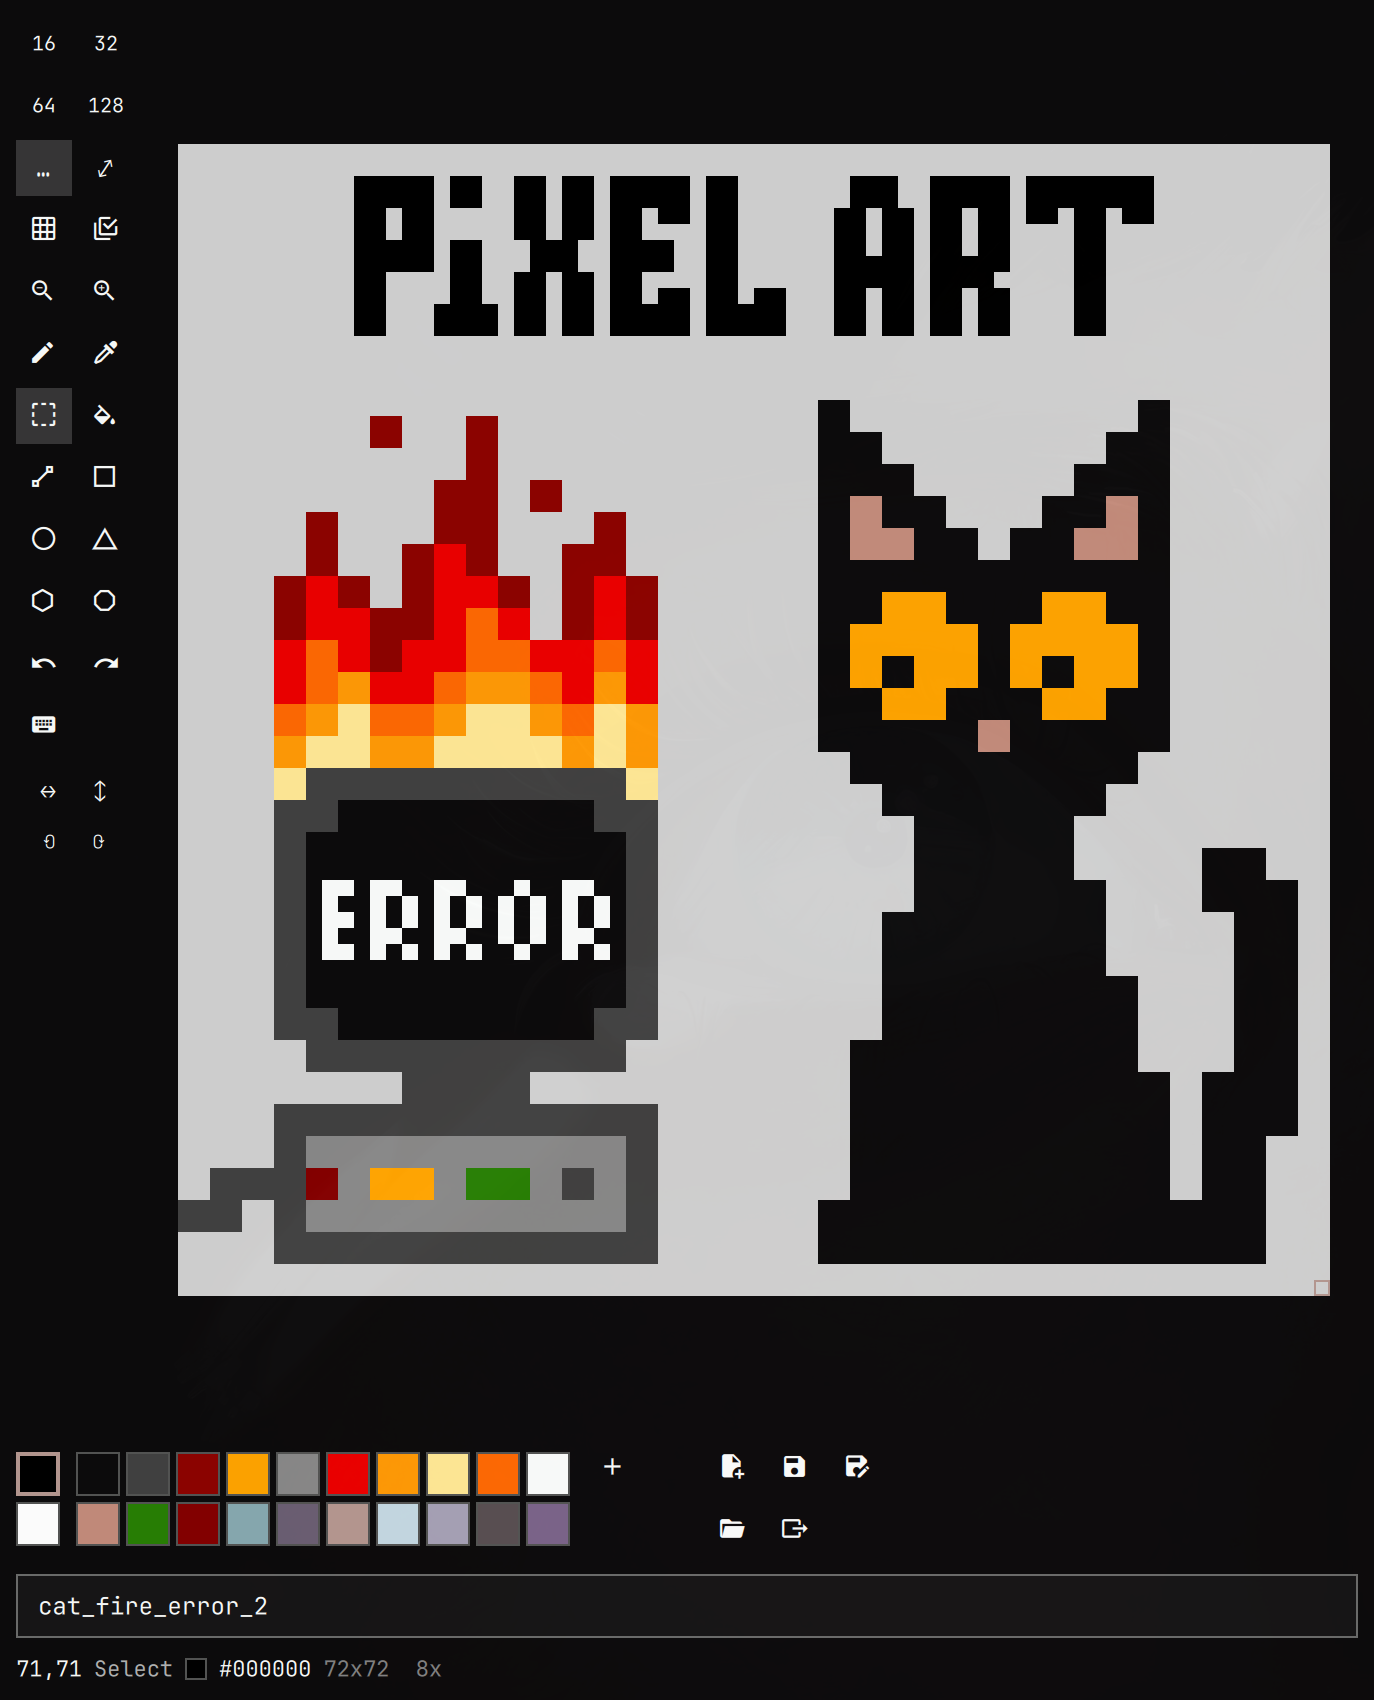
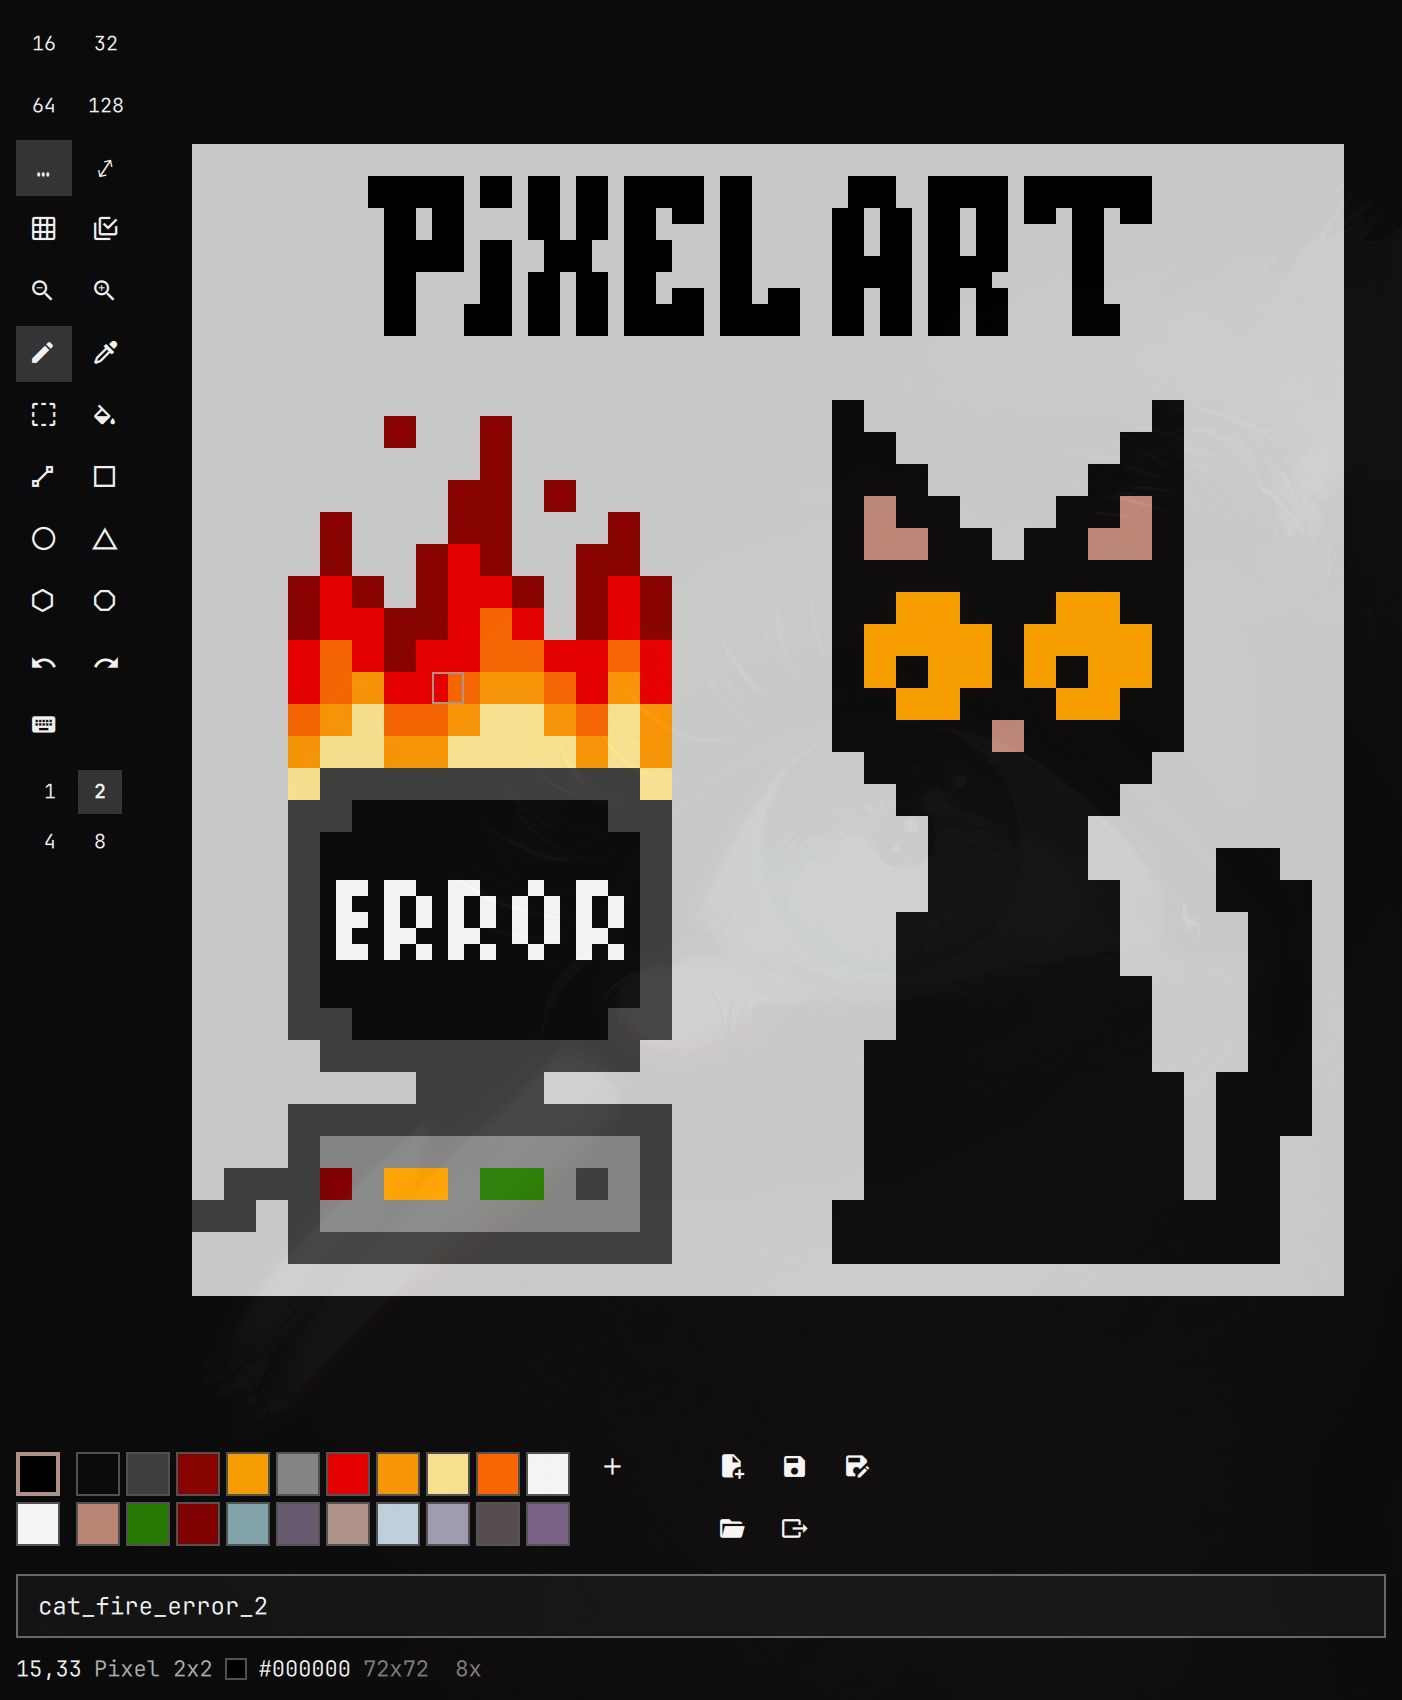
Update and center README screenshot

diff --git a/README.md b/README.md
@@ -1,6 +1,6 @@
 # PixelArt
 
-<img src="pixelart_demo.png" alt="PixelArt editor" width="500">
+<p align="center"><img src="pixelart_demo.png" alt="PixelArt editor" width="500"></p>
 
 A small, keyboard-driven pixel art editor for [Omarchy](https://omarchy.org).
 It runs as an Omarchy shell plugin: a keybind opens it as a normal tiled
